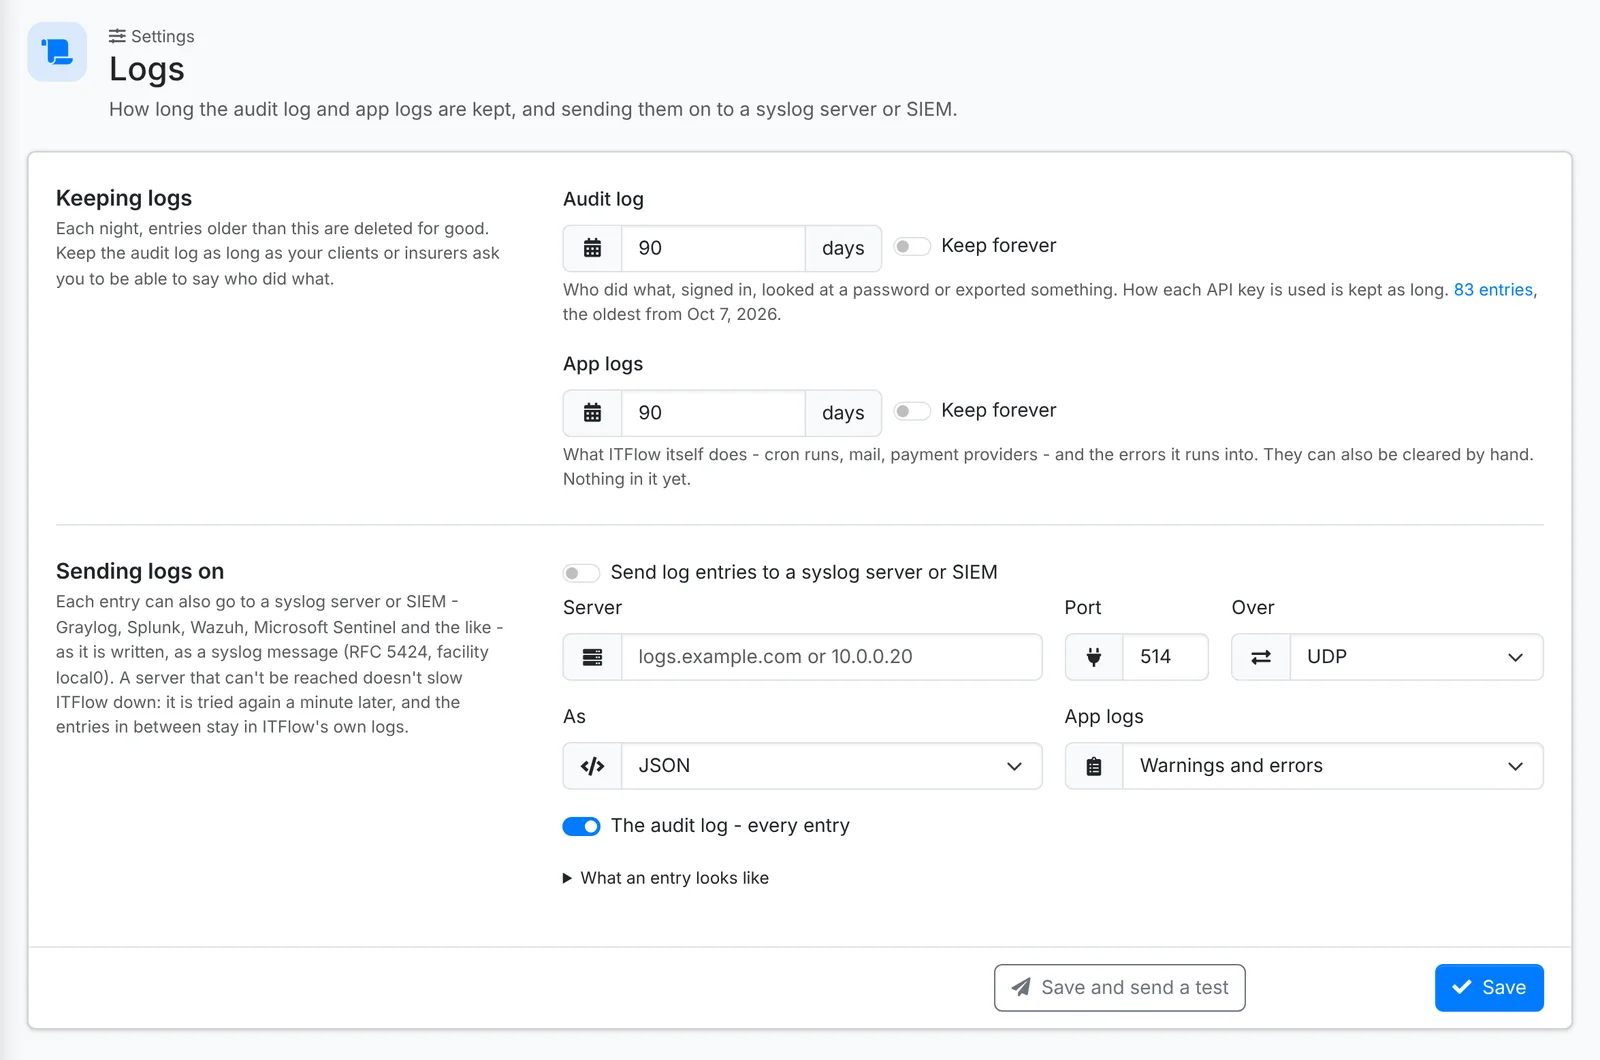
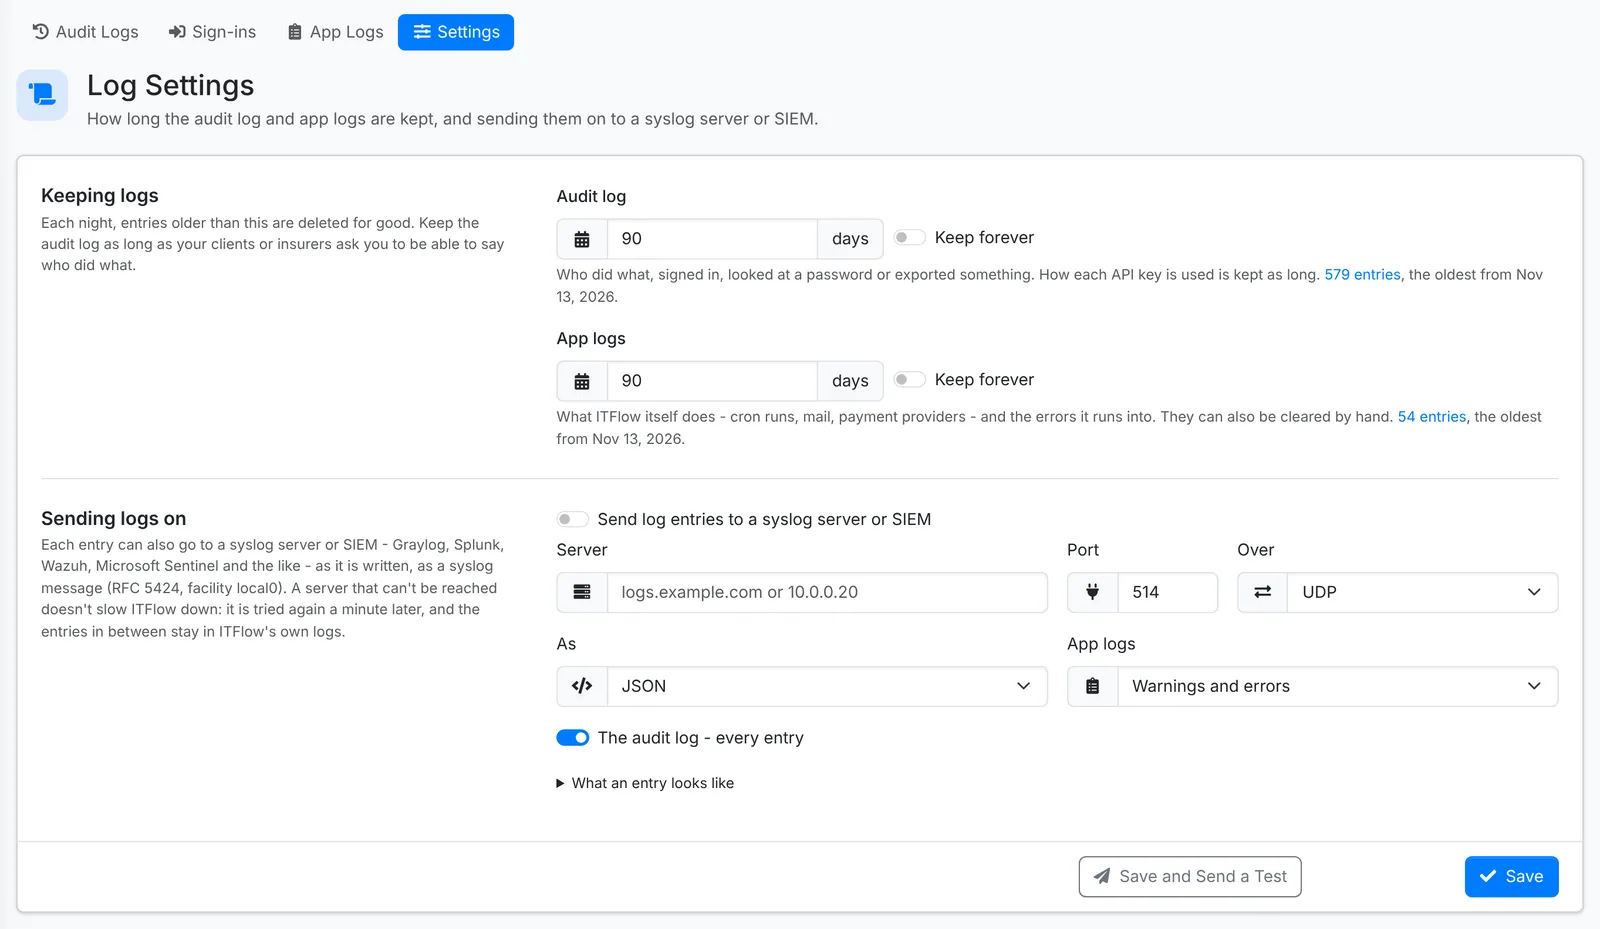
Docs: Logs - the log settings are the Settings tab beside App Logs, with the screenshot retaken, and Maintenance lists it among the Logs tabs

diff --git a/content/admin/logs.md b/content/admin/logs.md
@@ -27,9 +27,9 @@ When something isn't working - email not sending, a payment provider refusing - 
 
 ## Keeping and forwarding logs
 
-**Admin > Settings > Logs** sets how long each is kept - so many days, or forever - and can send every entry on to a syslog server or SIEM as it's written: Graylog, Splunk, Wazuh, Microsoft Sentinel and the like.
+The **Settings** tab, beside **App Logs**, sets how long each is kept - so many days, or forever - and can send every entry on to a syslog server or SIEM as it's written: Graylog, Splunk, Wazuh, Microsoft Sentinel and the like.
 
-![Log settings](adm-log-settings.webp "Logs: how long they're kept, and sending them on to a syslog server or SIEM")
+![Log settings](adm-log-settings.webp "Logs > Settings: how long they're kept, and sending them on to a syslog server or SIEM")
 
 For forwarding, set the **Server**, **Port**, whether it goes **Over** UDP, TCP or TLS, and **As** JSON, CEF or plain text. Pick which app logs to send, and whether to send **The audit log - every entry**. **Save and Send a Test** checks it arrives. If the server can't be reached, ITFlow isn't slowed down: it tries again a minute later, and the entries in between stay in ITFlow's own logs.
 

diff --git a/content/admin/maintenance.md b/content/admin/maintenance.md
@@ -246,4 +246,4 @@ The page still opens when the database is behind the code - which is when you mo
 
 - **Admin > Mail Queue** - every email sent or waiting. See [Mail](/admin/mail#the-mail-queue).
 - **Admin > Text Messaging > Messages** - every text sent and received, once texting is set up. See [Text messaging](/admin/text-messaging#log).
-- **Admin > Logs** - **Audit Logs**, **Sign-ins** and **App Logs**, as tabs. See [Logs](/admin/logs).
+- **Admin > Logs** - **Audit Logs**, **Sign-ins**, **App Logs** and their **Settings**, as tabs. See [Logs](/admin/logs).
